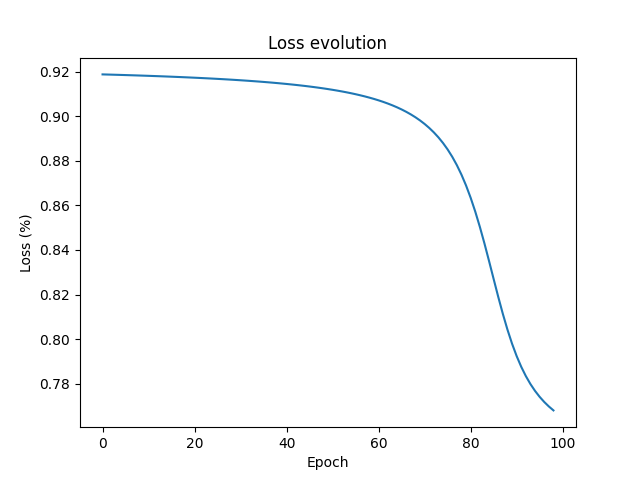
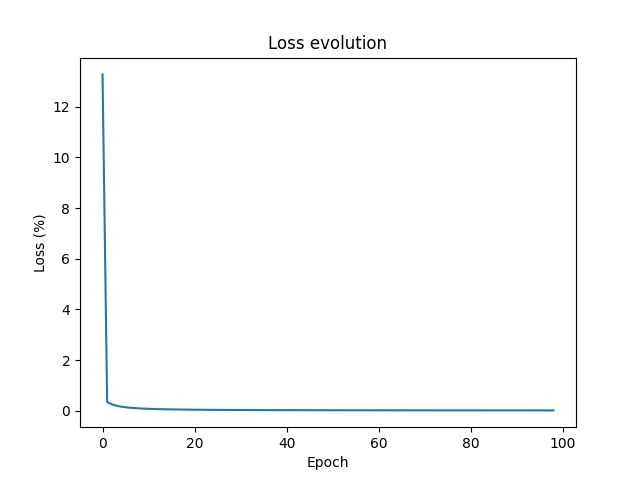
Nouvelle fonction de perte

diff --git a/src/model.py b/src/model.py
@@ -1,7 +1,5 @@
 import torch
 from torch import nn, max, min
-from dataloader import Dataloader
-import math
 from utils import *
 from graph import Graph
 
@@ -13,10 +11,11 @@ class BasicRGCN (nn.Module):
 
         for i in range(layers_count):
             self.model.append(ConvolutionalLayer(relations_count, in_features, out_features))
-            self.model.append(GraphReLU())
+            # self.model.append(GraphReLU())
+            # self.model.append(Dropout())
             
         self.model.append(DistMult(out_features, relations_count))
-        self.model.append(nn.Tanh())
+        # self.model.append(nn.Tanh())
 
     def forward(self, graph: Graph):
         return self.model(graph)
@@ -108,24 +107,13 @@ class CustomLoss(nn.Module):
         ones = torch.ones(entities_count).to(device)
 
         for i in range(0, graph.get_relations_count()):
-            a =  torch.mul(adjacency_matrixes[i], torch.log(torch.sigmoid(predicted_values[i]).to(device)))
+            a = torch.mul(adjacency_matrixes[i], torch.log(torch.sigmoid(predicted_values[i]).to(device)))
             b = torch.mul(torch.sub(ones, adjacency_matrixes[i]), torch.log(torch.sub(ones, torch.sigmoid(predicted_values[i]).to(device))))
 
-            loss[i] = torch.mean(torch.add(a, b))
+            loss[i] = torch.sum(torch.add(a, b))
 
-        positive = torch.count_nonzero(adjacency_matrixes).item()
-        negative = (entities_count**2) * graph.get_relations_count() - positive
-        
+        # positive = torch.count_nonzero(adjacency_matrixes).item()
+        # negative = (entities_count**2) * graph.get_relations_count() - positive        
         # return (-1 / ((1 + negative) * positive)) * loss.sum()
+
         return torch.mean(-1 * loss)
-
-class MSE(nn.Module):
-    def __init__(self):
-        super().__init__()
-
-    def forward (self, predicted_values, graph: Graph):
-        adjacency_matrixes = graph.get_adjacency_matrices() # y
-        
-        device = adjacency_matrixes.device
-
-        return  torch.mean(((adjacency_matrixes - predicted_values.to(device))**2) * 100)

diff --git a/src/train.py b/src/train.py
@@ -19,8 +19,9 @@ def train(training_graph: Graph, model, loss_fn, optimizer, device):
     model.train()
     training_graph.to(device)
     # Compute prediction error
-    pred = model(training_graph)
-    loss = loss_fn(pred, training_graph).to(device)
+    pred = model(training_graph).to(device)
+
+    loss = loss_fn(pred, training_graph.get_adjacency_matrices())
 
     # Backpropagation
     loss.backward()
@@ -35,8 +36,8 @@ def test(testing_graph: Graph, model, loss_fn):
     model.eval()
     test_loss = 0
     with torch.no_grad():
-        pred = model(testing_graph)
-        test_loss += loss_fn(pred, testing_graph).item()
+        pred = model(testing_graph).to(device)
+        test_loss += loss_fn(pred, testing_graph.get_adjacency_matrices()).item()
 
     print(f"Test loss: {test_loss:>8f}% \n")
 
@@ -81,7 +82,7 @@ if __name__ == '__main__':
     rgcn = BasicRGCN(in_features=2, out_features=2, relations_count=2).to(device)
     print(rgcn)
 
-    loss_fn = CustomLoss()
+    loss_fn = nn.MSELoss()
     optimizer = torch.optim.SGD(rgcn.parameters(), lr=1e-2)
     
     for epoch in range (1, 100):
